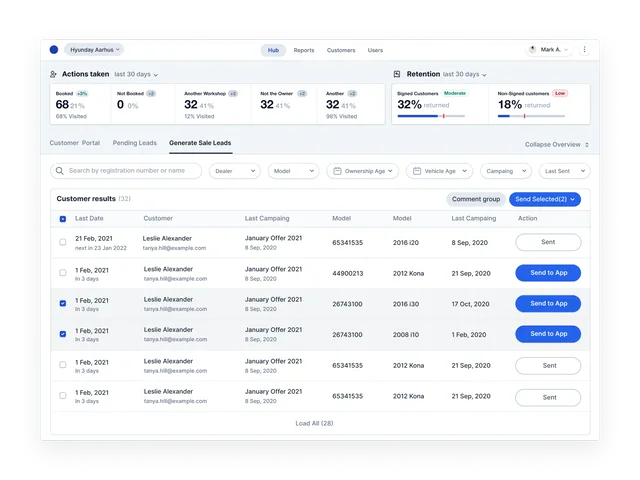
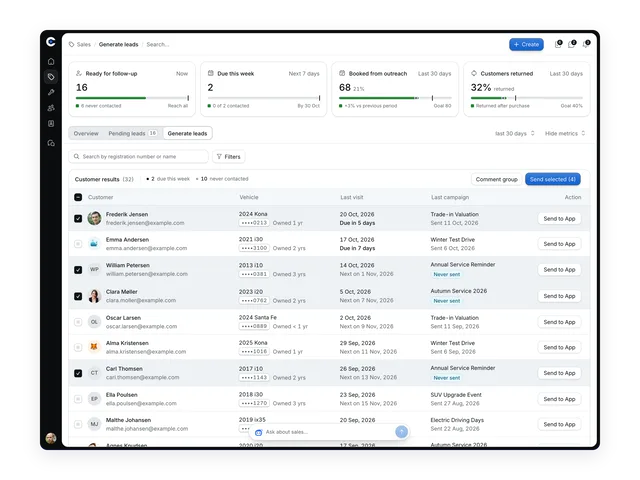
Replace the old lead hub with a Dealership Hub case study (#231)
* Show the new Dealership Hub app in the dealership tile

The tile still showed the Figma comp of the old lead hub, the
single-table CRM the new app replaces. Swap in a screenshot of the
running app (Generate leads with two customers selected), framed on
the same 1600x1200 transparent stage so the 4:3 tile, its 112% crop,
and the image-delivery size checks are unchanged.

* Add Dealership Hub screenshots for the case study

Eight 1600px captures of the app at 1440x1032: the hub and an
assistant answer, generate leads, the workshop board in light and
dark, the customer directory and a profile, and the team view.
Registered with the preview variants so the case study serves
sized siblings instead of the full original.

* Retitle the dealership card and write its case study

The card described the old lead hub only. Rename it Dealership Hub
and rewrite its detail, role, and outcome around the app that
replaces the dealership's older CRM. The id and slug stay, so likes
and /work/dealership-lead-hub/ links keep working.

The case study walks the six areas in order: the hub's first three
things, asking instead of hunting, the leads flow kept from the old
table, the workshop board, customer pages, and the team view. Tests
that found the tile by its old name follow the new title.

* Open the dealership tile on a fuller lead list

The hero showed the first six leads with two selected, which read as
a short demo. Re-shoot at 1440x1080 (4:3, filling the frame) with all
[…]

diff --git a/src/data/projectCaseStudies.ts b/src/data/projectCaseStudies.ts
@@ -2,8 +2,11 @@ import type { ProjectCaseStudy } from "./portfolio"
 
 // Different projects need different amounts of explanation. Media can be
 // added to these sections later without changing the reading layout.
-const study = (title: string, introduction: string[], sections: ProjectCaseStudy["sections"]): ProjectCaseStudy => ({
-  label: "Case study", title, introduction, sections,
+const study = (
+  title: string, introduction: string[], sections: ProjectCaseStudy["sections"],
+  options: Pick<ProjectCaseStudy, "media"> = {},
+): ProjectCaseStudy => ({
+  label: "Case study", title, introduction, sections, ...options,
 })
 
 export const projectCaseStudies = {
@@ -166,6 +169,72 @@ export const projectCaseStudies = {
       { source: "/Projects/matcha-marketing-match-roses.webp", label: "“Roses are red, Matcha is the best”", width: 1200, height: 1043 },
     ] },
   ]),
+  "dealership-lead-hub": study("From a lead table to a dealership hub", [
+    "The old CRM did one thing: list customers and send them a campaign.",
+    "Everything around that list — the workshop, the customer’s history, who on the team was falling behind — lived in other tools.",
+    "I designed and built Dealership Hub to replace it: one app for sales, service, customers, and staff, with the lead flow still at its centre.",
+  ], [
+    { heading: "Where it started", paragraphs: [
+      "The lead hub was a dense table under a row of numbers nobody could act on: “Not the Owner”, “Another Workshop”.",
+      "Every row looked the same, the send button was the loudest thing on the page, and nothing said who to call first.",
+      "Its strongest idea, filtering customers and sending a batch to the dealer app, was worth keeping. The rest needed rethinking.",
+    ], media: [
+      { source: "/Projects/dealership-hub-old-lead-hub.webp", label: "The old lead hub this replaces", width: 1400, height: 1004 },
+    ] },
+    { heading: "Start with what needs doing", paragraphs: [
+      "The hub opens on the three things worth doing first, each with its reason: a customer waiting in the lounge, six leads never contacted.",
+      "Sales, workshop, issues, and team follow as one line each, and a shared to-do list stays alongside.",
+      "Picking one drafts the question for you — who should I call first? — ready to send or edit.",
+    ], media: [
+      { source: "/Projects/dealership-hub-hub-light.webp", label: "The hub, opening on the day’s first three things", width: 2880, height: 2064 },
+    ] },
+    { heading: "Ask instead of hunting", paragraphs: [
+      "Every page has the same bar at the bottom for plain questions, like what’s running late.",
+      "Answers come back as rows that open the job or the customer, not paragraphs to read, with the likely next questions underneath.",
+    ], media: [
+      { source: "/Projects/dealership-hub-hub-answer.webp", label: "An answer listing the three late jobs", width: 2880, height: 2064 },
+    ] },
+    { heading: "Leads, kept and sharpened", paragraphs: [
+      "Rewrote the metrics as things to act on — ready for follow-up, due this week — each measured against a goal.",
+      "Folded six dropdowns into one Filters menu that composes dealer, model, campaign, ownership, and last sent.",
+      "Rows lead with the person and their car, mask the registration, and flag anyone who has never been contacted.",
+      "Batch sends confirm the count and can be undone; an offline send keeps the selection so it can be retried.",
+    ], media: [
+      { source: "/Projects/dealership-hub-leads-filters.webp", label: "One Filters menu in place of six dropdowns", width: 2880, height: 2064 },
+      { source: "/Projects/dealership-hub-leads-confirm.webp", label: "Confirming a send to four customers", width: 2880, height: 2064 },
+    ] },
+    { heading: "The workshop floor at a glance", paragraphs: [
+      "Service was invisible in the old CRM. Now every car on the floor sits on one board, grouped by stage.",
+      "Each stage says how many cars are running late, and each row pairs car, customer, job, and technician with the time promised.",
+    ], media: [
+      { source: "/Projects/dealership-hub-workshop-light.webp", label: "The workshop board, grouped by stage", width: 2880, height: 2064 },
+    ] },
+    { heading: "One page per customer", paragraphs: [
+      "The directory opens on who needs attention — follow-ups, an advisor on leave, an unbooked recall — before the list itself.",
+      "A customer’s page holds their cars, bookings, staff notes, and the conversation side by side, so nobody asks them the same thing twice.",
+    ], media: [
+      { source: "/Projects/dealership-hub-customers-light.webp", label: "The customer directory", width: 2880, height: 2064 },
+      { source: "/Projects/dealership-hub-customer-profile.webp", label: "A customer profile with bookings and messages", width: 2880, height: 2064 },
+    ] },
+    { heading: "Who needs a hand", paragraphs: [
+      "The team view tracks each advisor’s sales against target, open leads, and what’s overdue.",
+      "Leave, unassigned leads, and pending invites surface as tasks with one action each: reassign, assign, resend.",
+    ], media: [
+      { source: "/Projects/dealership-hub-team-light.webp", label: "The team view, with sales against target", width: 2880, height: 2064 },
+    ] },
+    { heading: "One system under it", paragraphs: [
+      "Neutral surfaces carry the work; one brand blue moves it forward, and orange is saved for what’s urgent.",
+      "Every screen is built from the same tokens and components, documented on a live design-system page, so the dark theme is the same components on different tokens.",
+    ], media: [
+      { source: "/Projects/dealership-hub-design-system-light.webp", label: "The live design-system page", width: 2880, height: 2064 },
+      { source: "/Projects/dealership-hub-workshop-dark.webp", label: "The workshop board in the dark theme", width: 2880, height: 2064 },
+    ] },
+    { heading: "Built to be used, not just shown", paragraphs: [
+      "It’s a working Next.js app on sample data, not a click-through: filters, sends, undo, comments, and to-dos all hold state.",
+      "Single-letter shortcuts move between pages without stealing the browser’s own, and menus and dialogs work from the keyboard.",
+      "More than 90 Playwright tests cover those flows, from offline retries to mobile tables that scroll inside themselves.",
+    ] },
+  ], { media: "wide" }),
   "protector-booking": study("Making a personal-security booking clear", [
     "I was the sole product designer for Protector’s booking experience.",
     "The flow brings the person, their attire, and transportation into one request.",

diff --git a/src/lib/media.ts b/src/lib/media.ts
@@ -20,6 +20,17 @@ const webpPreviewVariantSources = new Set([
   "/Projects/protector.webp",
   "/Projects/popparazi_v1.webp",
   "/Projects/dealership-lead-hub.webp",
+  "/Projects/dealership-hub-hub-light.webp",
+  "/Projects/dealership-hub-hub-answer.webp",
+  "/Projects/dealership-hub-old-lead-hub.webp",
+  "/Projects/dealership-hub-leads-filters.webp",
+  "/Projects/dealership-hub-leads-confirm.webp",
+  "/Projects/dealership-hub-design-system-light.webp",
+  "/Projects/dealership-hub-workshop-light.webp",
+  "/Projects/dealership-hub-workshop-dark.webp",
+  "/Projects/dealership-hub-customers-light.webp",
+  "/Projects/dealership-hub-customer-profile.webp",
+  "/Projects/dealership-hub-team-light.webp",
   "/Projects/shared-family-stories.webp",
   "/Projects/matcha-rewards.webp",
   "/Projects/matcha-rewards-link-preview.webp",
@@ -49,6 +60,23 @@ const webpPreviewVariantSources = new Set([
   "/Projects/matcha-marketing-polygon-alt.webp",
   "/Projects/matcha-marketing-bnb-chain-alt.webp",
   "/Projects/matcha-marketing-bnb-chain-icon.webp",
+])
+// Product screenshots carry small UI text and run 800-900px wide in the
+// gallery, so a 2x screen needs ~1800 real pixels. These keep their full
+// capture resolution and add the larger steps; everything else stops at 960.
+const hiDpiVariantWidths = [1280, 1600, 1920, 2400]
+const hiDpiPreviewSources = new Set([
+  "/Projects/dealership-lead-hub.webp",
+  "/Projects/dealership-hub-hub-light.webp",
+  "/Projects/dealership-hub-hub-answer.webp",
+  "/Projects/dealership-hub-workshop-light.webp",
+  "/Projects/dealership-hub-workshop-dark.webp",
+  "/Projects/dealership-hub-customers-light.webp",
+  "/Projects/dealership-hub-customer-profile.webp",
+  "/Projects/dealership-hub-team-light.webp",
+  "/Projects/dealership-hub-leads-filters.webp",
+  "/Projects/dealership-hub-leads-confirm.webp",
+  "/Projects/dealership-hub-design-system-light.webp",
 ])
 const hasPreviewVariants = (source: string) =>
   /_shot-small-\d+\.jpg$/.test(source) || webpPreviewVariantSources.has(source)
@@ -88,7 +116,8 @@ export function buildPreviewSrcSet(source: string, intrinsicWidth?: number) {
   const stem = source.slice(0, -extension.length)
   // Skip variants at or above the source width (popparazi is only 630px wide,
   // so a -960w sibling would be an upscale that doesn't exist).
-  const candidates = previewVariantWidths
+  const widths = hiDpiPreviewSources.has(source) ? [...previewVariantWidths, ...hiDpiVariantWidths] : previewVariantWidths
+  const candidates = widths
     .filter((width) => !intrinsicWidth || width < intrinsicWidth)
     .map((width) => `${stem}-${width}w${extension} ${width}w`)
   if (intrinsicWidth) candidates.push(`${source} ${intrinsicWidth}w`)

diff --git a/src/data/portfolio.ts b/src/data/portfolio.ts
@@ -67,6 +67,10 @@ export type ProjectCaseStudySection = {
 
 export type ProjectCaseStudy = {
   showSignatures?: boolean
+  /** Dense product screenshots stack one per row and run the card's full
+      width, past the text measure, so their UI stays legible. Artwork that
+      reads at half width (posts, campaign stills) keeps the default pairs. */
+  media?: "wide"
   label: string
   title: string
   introduction: string[]
@@ -501,18 +505,18 @@ const portfolioCardEntries: PortfolioCard[] = [
     id: "preview-dealership-lead-hub",
     slug: "dealership-lead-hub",
     category: "Preview",
-    title: "Dealership lead hub",
+    title: "Dealership Hub",
     summary: "",
     detail:
-      "I designed a lead hub for a dealership retention platform, helping staff find sales and service opportunities in their existing customer base. I owned the layout, outreach metrics, retention comparisons, filters, and bulk-send flow, so staff can see how outreach performed and send a filtered batch of customers to the dealer app without leaving the page.",
-    role: "I designed the hub layout, its overview metrics, and the filtering and bulk-send flow for leads.",
+      "I designed and built Dealership Hub, the app that replaces the dealership's older CRM. The old tool was a single lead table; the Hub brings sales, the workshop floor, customer records, and the team into one place, opens on the few things worth doing first, and answers plain questions with rows that link straight to the job or the customer.",
+    role: "I designed the app end to end and built it as a working Next.js prototype: the hub, the leads flow, the workshop board, customer profiles, team views, and the design system under them.",
     outcome:
-      "Staff can read how recent outreach landed and send a filtered batch of customers without leaving the page.",
+      "One app in place of the old single-table CRM: staff can start from what needs doing and follow a customer from a sales lead to a car on the lift.",
     image: "/Projects/dealership-lead-hub.webp",
-    previewWidth: 1600,
-    previewHeight: 1200,
+    previewWidth: 3200,
+    previewHeight: 2400,
     ctaHref: "#",
-    product: "Dealer retention platform",
+    product: "Dealership CRM",
     industry: "Automotive Retail",
     previewAspectRatio: 4 / 3,
   },

diff --git a/src/components/ProjectCaseStudy.tsx b/src/components/ProjectCaseStudy.tsx
@@ -9,9 +9,10 @@ export function ProjectCaseStudy({ card }: { card: PortfolioCard }) {
   const caseStudy = card.caseStudy
   if (!caseStudy) return null
   const signatures = [collaborators.rafael, ...(card.team ?? [])]
+  const wide = caseStudy.media === "wide"
 
   return (
-    <section className="project-case-study" aria-labelledby={`${card.id}-case-study-title`}>
+    <section className="project-case-study" data-media={wide ? "wide" : undefined} aria-labelledby={`${card.id}-case-study-title`}>
       <div className="project-case-study-layout">
         {caseStudy.sections.length > 1 ? <ArticleContents label="Case study contents" revealAfter={`${card.id}-case-study-section-1`}
           sections={caseStudy.sections.map((section, index) => ({
@@ -41,7 +42,7 @@ export function ProjectCaseStudy({ card }: { card: PortfolioCard }) {
                   </ul>
                 </div>
                 {section.media?.length ? (
-                  <div className="project-case-study-media" data-layout={section.media.length === 1 ? "feature" : "pair"}>
+                  <div className="project-case-study-media" data-layout={section.media.length === 1 ? "feature" : wide ? "stack" : "pair"}>
                     {section.media.map((item) => {
                       const srcSet = buildPreviewSrcSet(item.source, item.width)
                       return (
@@ -49,7 +50,9 @@ export function ProjectCaseStudy({ card }: { card: PortfolioCard }) {
                           <img
                             src={item.source}
                             srcSet={srcSet}
-                            sizes={srcSet ? section.media?.length === 1
+                            sizes={srcSet ? wide
+                              ? "(max-width: 699px) calc(100vw - 2.5rem), 52rem"
+                              : section.media?.length === 1
                               ? "(max-width: 699px) calc(100vw - 2.5rem), 36rem"
                               : "(max-width: 699px) calc(100vw - 2.5rem), 18rem" : undefined}
                             alt={item.label}

diff --git a/tests/e2e/portfolio-polish.spec.ts b/tests/e2e/portfolio-polish.spec.ts
@@ -3808,7 +3808,7 @@ test("keeps the staggered projects in the offset group", async ({ page }) => {
 
   await expect(cards).toHaveCount(4)
   await expect(cards.nth(0)).toHaveAttribute("aria-label", /Open Shared family stories/)
-  await expect(cards.nth(1)).toHaveAttribute("aria-label", /Open Dealership lead hub/)
+  await expect(cards.nth(1)).toHaveAttribute("aria-label", /Open Dealership Hub/)
   await expect(cards.nth(2)).toHaveAttribute("aria-label", /Open Matcha token page/)
   await expect(cards.nth(3)).toHaveAttribute("aria-label", /Open Matcha Rewards/)
 })
@@ -3820,7 +3820,7 @@ test("uses narrower left and wider right columns in the offset group", async ({ 
   const tokenCard = page.getByRole("link", { name: /Open Matcha token page/ })
   const familyCard = page.getByRole("link", { name: /Open Shared family stories/ })
   const rewardsCard = page.getByRole("link", { name: /Open Matcha Rewards/ })
-  const dealershipCard = page.getByRole("link", { name: /Open Dealership lead hub/ })
+  const dealershipCard = page.getByRole("link", { name: /Open Dealership Hub/ })
   const group = page.locator(".mosaic-group").filter({ has: tokenCard })
   await expect(group.locator(".mosaic-row-item")).toHaveCount(4)
 

diff --git a/src/styles/preview-gallery.css b/src/styles/preview-gallery.css
@@ -817,8 +817,23 @@
   grid-template-columns: repeat(2, minmax(0, 1fr));
 }
 
-.project-case-study-media[data-layout="feature"] {
+.project-case-study-media:is([data-layout="feature"], [data-layout="stack"]) {
   grid-template-columns: minmax(0, 1fr);
+}
+
+/* Screenshots of a working product carry small UI text: at half the measure
+   a table row is unreadable. They stack one per row instead of pairing. */
+.project-case-study-media[data-layout="stack"] {
+  gap: 2rem;
+}
+
+/* In the gallery they also step out of the text measure to the card's full
+   inner width, the same width as the hero above them. The standalone page has
+   no inline-size container, so `cqi` would resolve against the viewport there;
+   it keeps the measure. */
+.preview-gallery-card .project-case-study[data-media="wide"] .project-case-study-media {
+  width: 100cqi;
+  margin-inline: calc((100% - 100cqi) / 2);
 }
 
 .project-case-study-media figure {

diff --git a/tests/e2e/image-delivery.spec.ts b/tests/e2e/image-delivery.spec.ts
@@ -79,8 +79,8 @@ for (const width of [390, 1440]) {
       // Dealership renders at 112% of its clip width for the deliberate crop.
       // Family Stories scales to 130% in the compact tile.
       const fixtures = width === 390
-        ? [["Popparazi V1", 84], ["Shared family stories", 235], ["Dealership lead hub", 189]] as const
-        : [["Popparazi V1", 130], ["Shared family stories", 565], ["Dealership lead hub", 854]] as const
+        ? [["Popparazi V1", 84], ["Shared family stories", 235], ["Dealership Hub", 189]] as const
+        : [["Popparazi V1", 130], ["Shared family stories", 565], ["Dealership Hub", 854]] as const
       for (const [name, originalWidth] of fixtures) {
         const image = page.getByAltText(name, { exact: true }).and(page.locator("img.mosaic-row-media"))
         await image.scrollIntoViewIfNeeded()

diff --git a/tests/e2e/organic-grid.spec.ts b/tests/e2e/organic-grid.spec.ts
@@ -202,7 +202,7 @@ test("shows the dealership preview large and crops it at the card edge", async (
   await page.emulateMedia({ reducedMotion: "reduce" })
   await page.goto("/")
 
-  const card = page.getByRole("link", { name: /Open Dealership lead hub/ })
+  const card = page.getByRole("link", { name: /Open Dealership Hub/ })
   await card.scrollIntoViewIfNeeded()
 
   const [cardBox, mediaClipBox, mediaBox] = await Promise.all([
